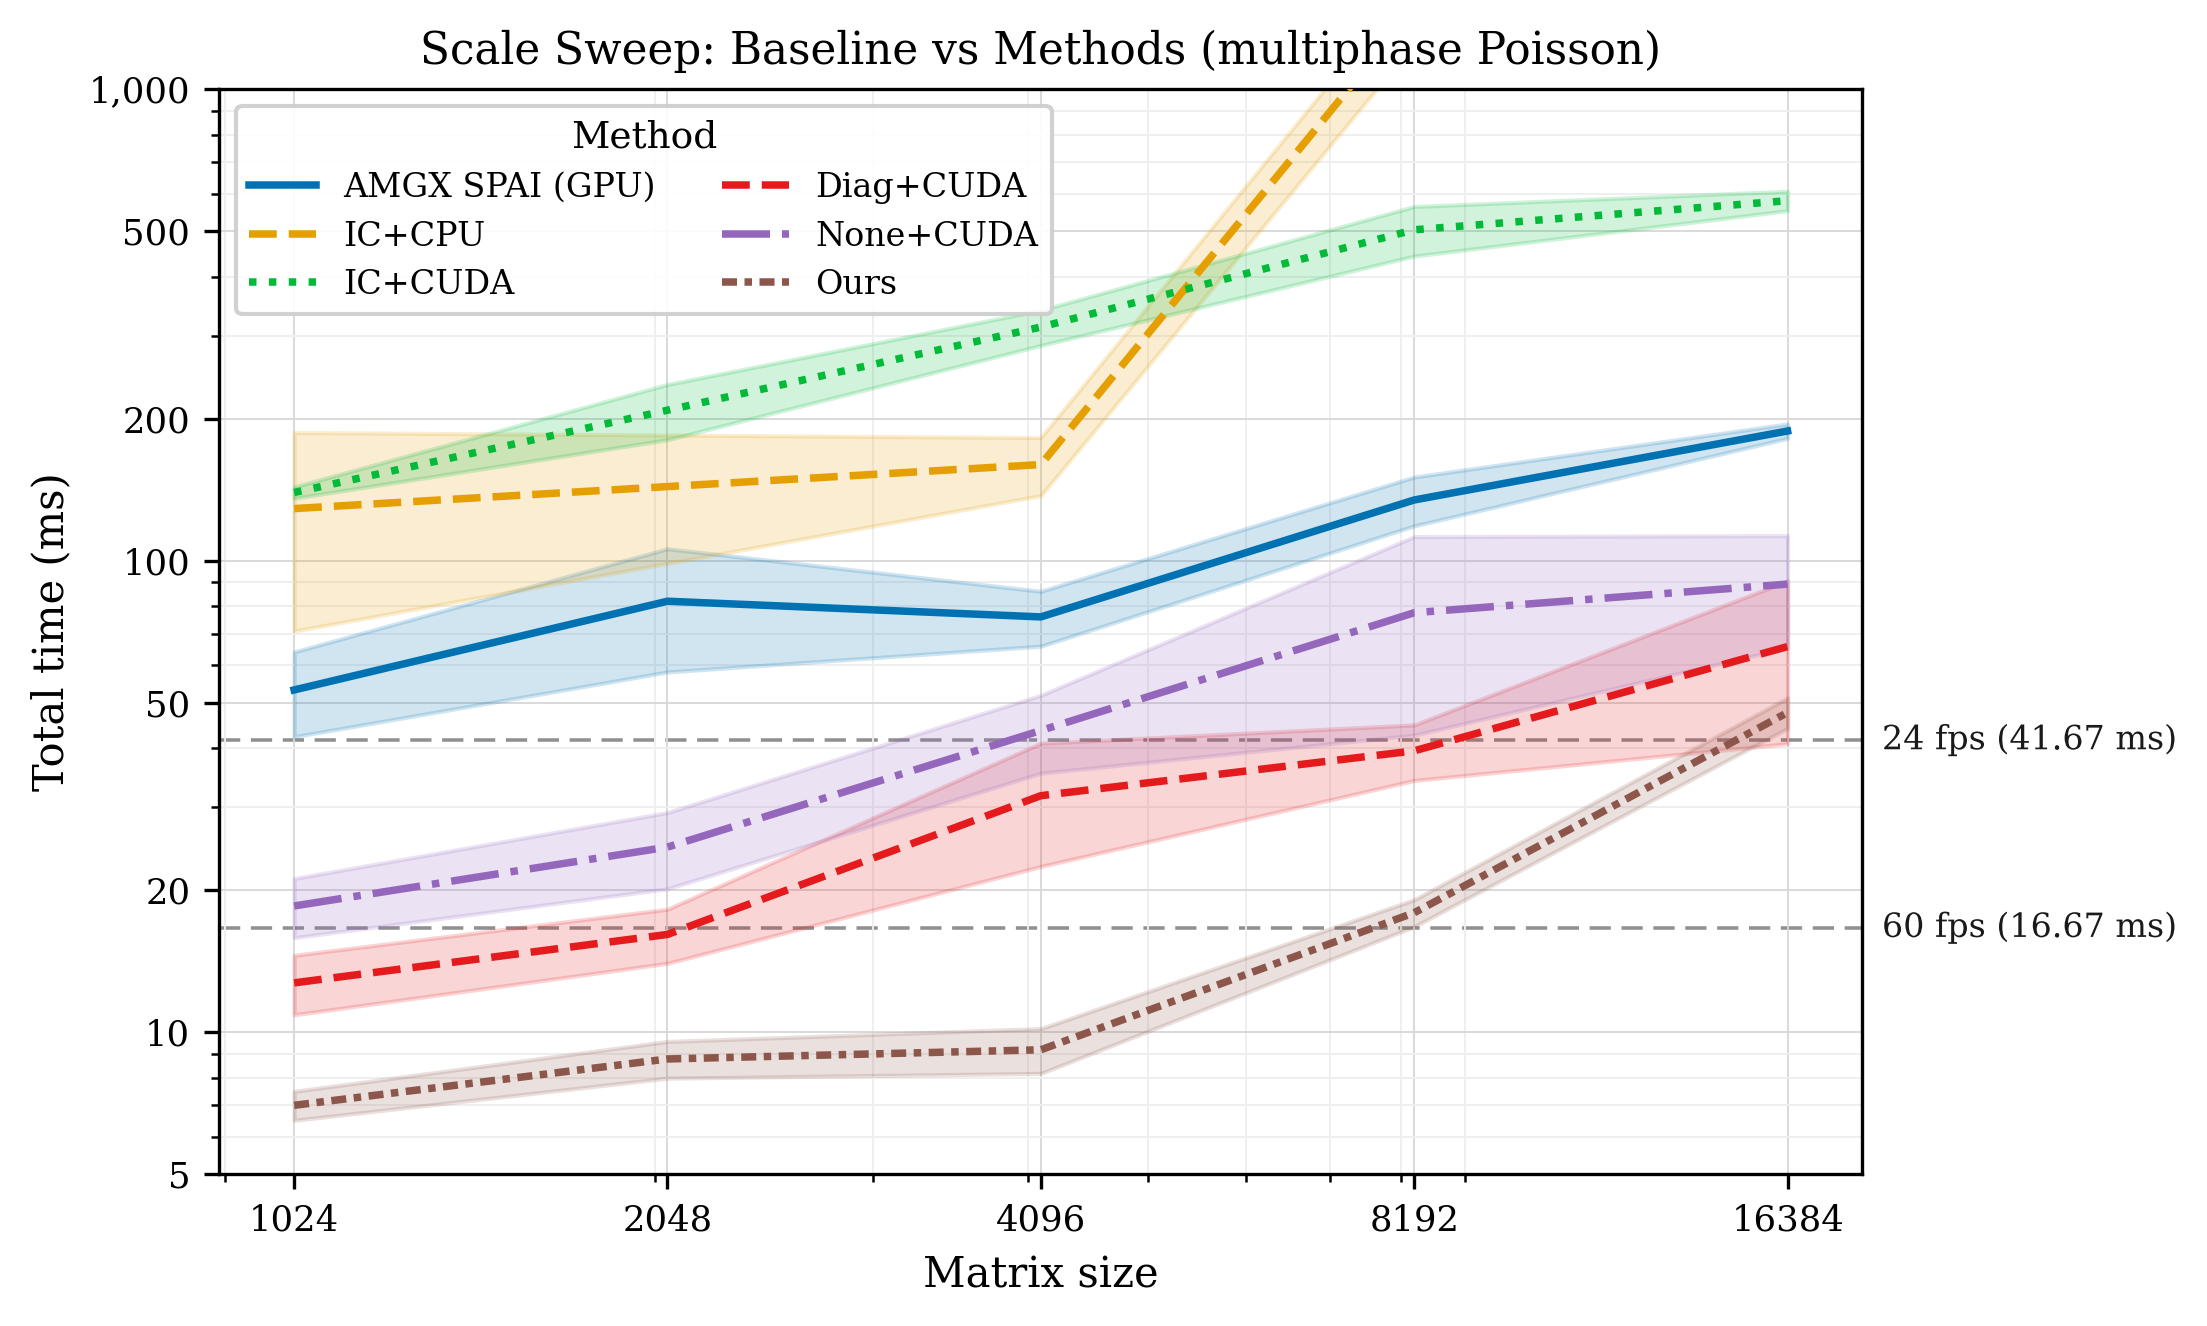
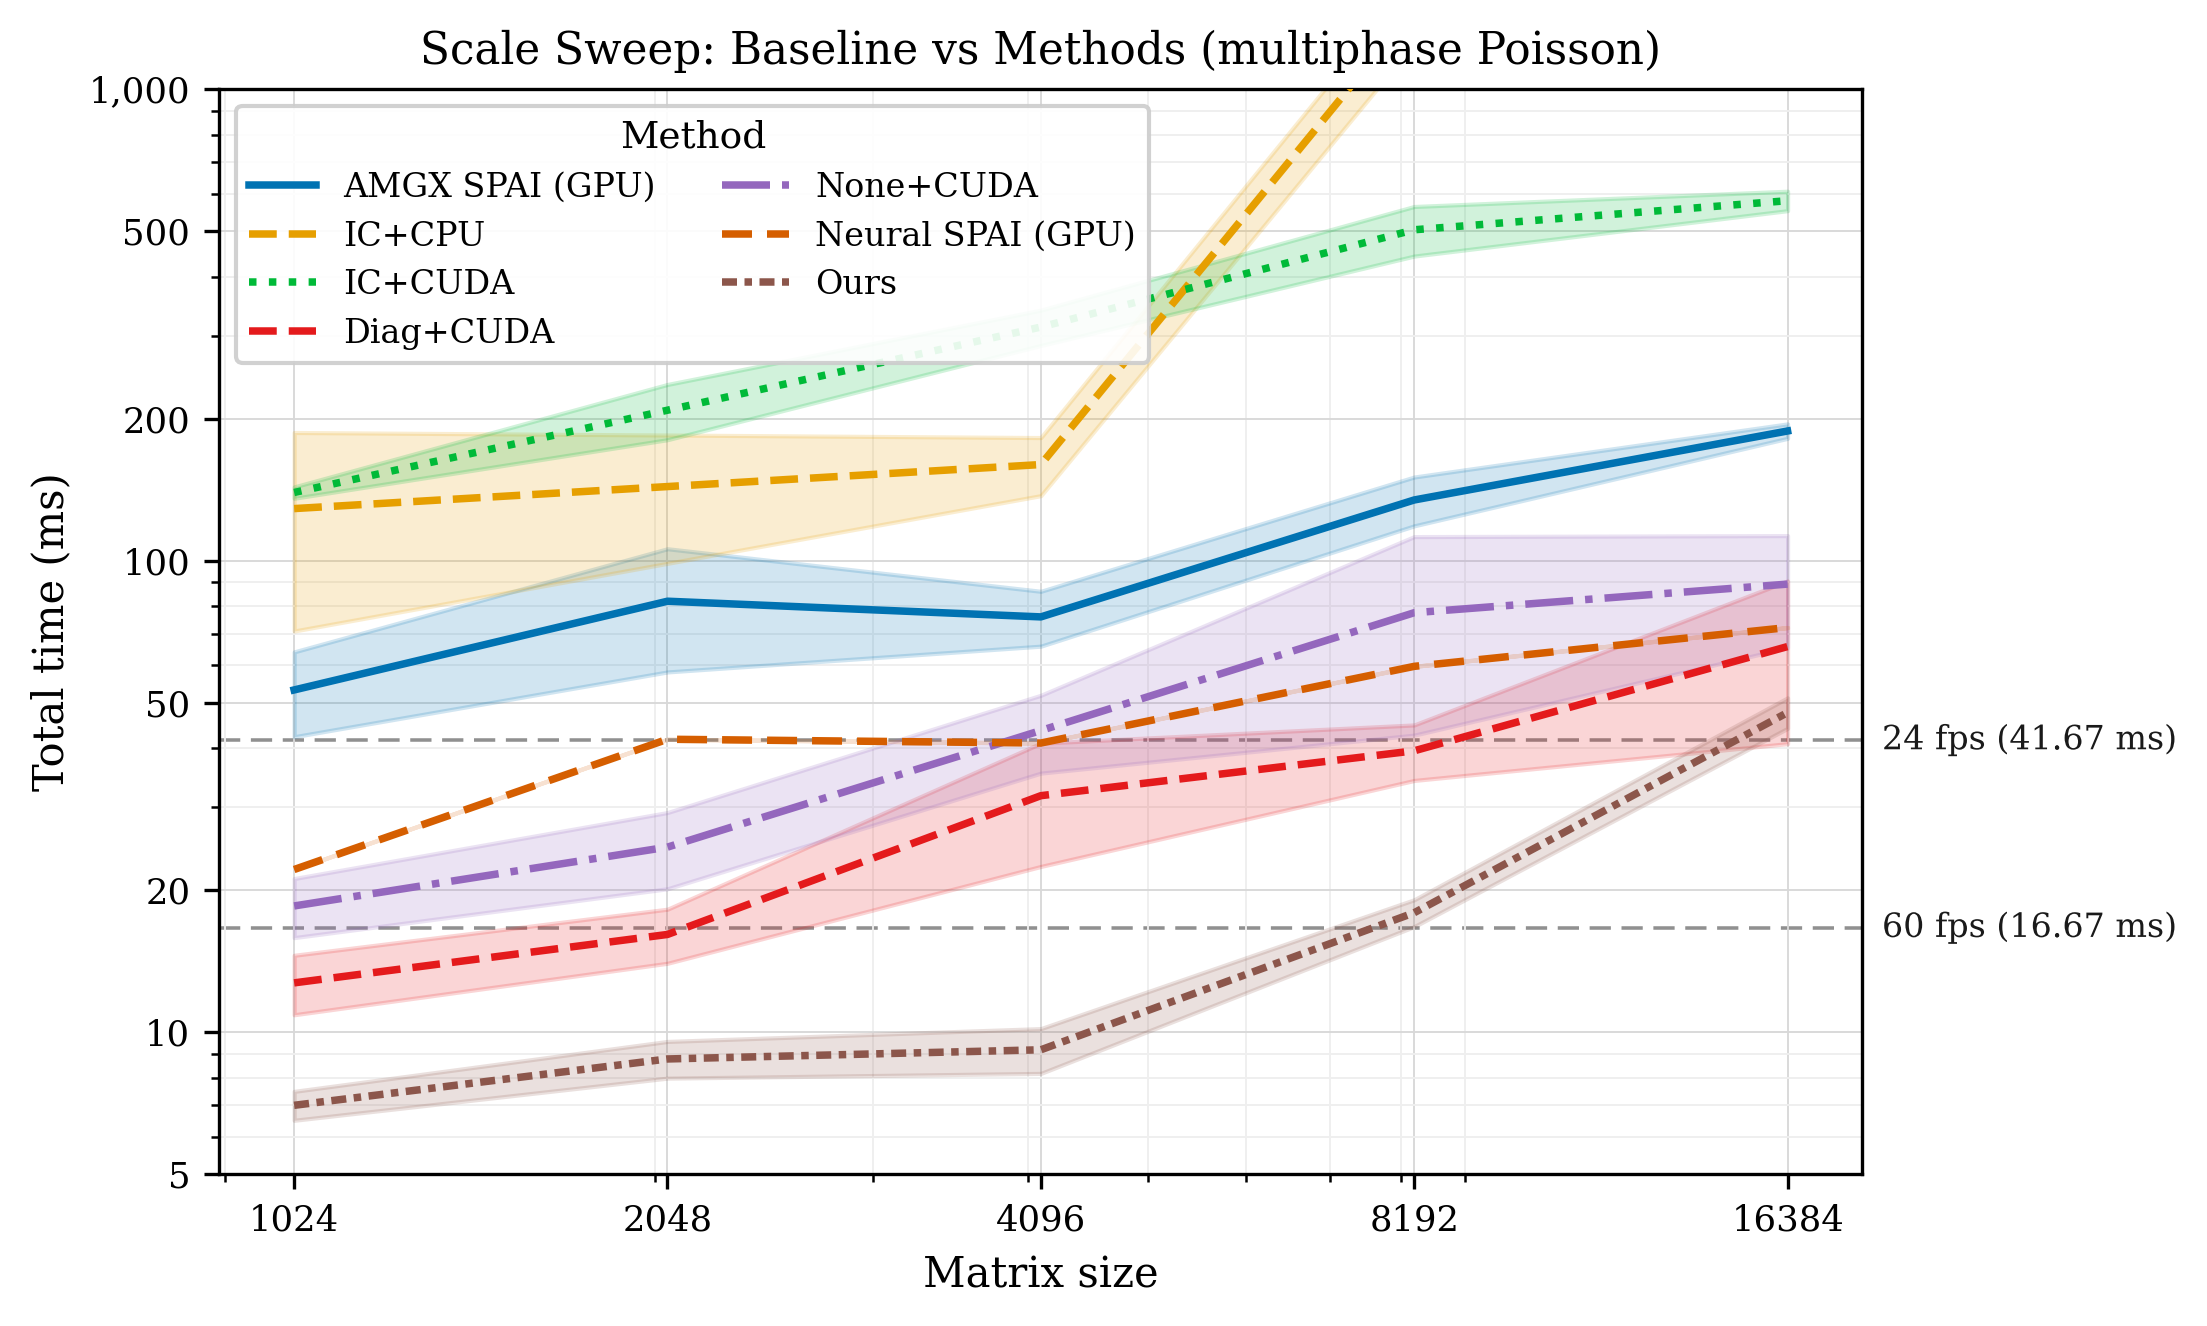
Incorporate neural SPAI baseline into main paper
Adds the re-trained neural SPAI (Yang et al. 2025) curve to the
scale-vs-time plot via a new loader in plot_eval_results.py that reads
lsp_scale_infer_summary.csv. Promotes the per-scale performance table
out of the supplementary into the main paper's figures-and-tables
section, expanded with all non-overlapping solver methods, "ms (iters)"
formatting, and bold marking the fastest GPU time per scale. Updates
the abstract, fig:scale_methods caption, and main-result paragraph to
cite the neural SPAI numbers (3.3x speedup at N=8192) and attribute the
gap to its irregular-gather SpMV apply. Slims the supplementary's old
perf table to a per-frame iteration-count variability table.

diff --git a/Paper/paper.tex b/Paper/paper.tex
@@ -93,7 +93,10 @@ $18.1\!\pm\!2.4$\,ms ($3.2$\,ms inference $+$ $14.9$\,ms PCG over $174$ iteratio
 $38.8\!\pm\!10.5$\,ms for GPU Jacobi, $117.7\!\pm\!4.1$\,ms for AMGX classical AMG, and
 $449.6\!\pm\!83.7$\,ms for AMGX \textsc{multicolor\_dilu} --- a $2.1\times$ speedup over
 the fastest classical GPU baseline (Jacobi) and over $24\times$ over AMGX
-\textsc{multicolor\_dilu}.
+\textsc{multicolor\_dilu}. Against the learned baseline most closely related to ours,
+neural SPAI~\cite{Yang2025sparse} re-trained per scale on the same benchmark with its
+CUDA apply path, we measure a $3.3\times$ end-to-end speedup at $N\!=\!8\,192$, with the
+gap dominated by the irregular-gather SpMVs in its apply rather than by iteration count.
 \end{abstract}
 
 \begin{CCSXML}
@@ -1019,10 +1022,11 @@ admits it (unpreconditioned CG, Jacobi, AMGX SPAI, ours), and per-kernel launche
 IC- and AMG-class methods that do not. AMGX baselines run with vendor defaults; we
 verified at $N\!=\!8\,192$ that no nearby AMGX hyperparameter configuration meaningfully
 improves total time. Full hardware, software stack, precision, and baseline-tuning
-details are in Supplementary Material, \S\ref{SX-supp:experimental-setup}.\footnote{%
-Neural SPAI~\cite{Yang2025sparse} would be the natural learned baseline but its public
-implementation does not yet support our problem class without substantial
-reimplementation; we leave a quantitative comparison to future work.}
+details are in Supplementary Material, \S\ref{SX-supp:experimental-setup}.
+We additionally include neural SPAI~\cite{Yang2025sparse} as a learned
+baseline: we ported its training pipeline and SAI loss to our multiphase
+benchmark and re-trained one network per scale, applying the resulting
+$G$ as a CUDA-Graph-captured pair of SpMVs in PCG.
 
 % ---------------------------------------------------------------------------
 \subsection{Target regime}
@@ -1156,32 +1160,41 @@ frame because $A$ changes; we move that cost out of the per-frame budget entirel
     problem sizes, $20$ frames per scale (mean $\pm 1\sigma$ band; relative residual
     tolerance $10^{-8}$). Dashed grey lines mark the $24$\,fps and $60$\,fps interactive
     budgets. Ours covers $\sim\!154$ down to $\sim\!22$\,fps across the size
-    range; the closest GPU baseline (Jacobi) covers $\sim\!85$ down to
-    $\sim\!16$\,fps on the same hardware. AMGX SPAI and GPU IC sit above $40$\,ms across
+    range; the closest classical GPU baseline (Jacobi) covers $\sim\!85$ down to
+    $\sim\!16$\,fps on the same hardware, and the closest learned baseline
+    (neural SPAI~\cite{Yang2025sparse}, re-trained per scale on our benchmark) covers
+    $\sim\!45$ down to $\sim\!14$\,fps. AMGX SPAI and GPU IC sit above $40$\,ms across
     all scales despite much lower iteration counts, dominated by unparallelizable
     triangular solves or V-cycle level synchronization. PyAMG (CPU) is omitted: its
     setup cost scales nonlinearly with contrast under stiff multiphase systems, making
-    its curve noisy and not directly comparable to GPU-resident methods; full numbers
-    are preserved in Supplementary, Table~\ref{SX-tab:full_perf_table}.}
+    its curve noisy and not directly comparable to GPU-resident methods; full
+    per-method timings and iteration counts appear in
+    Table~\ref{tab:full_perf_table_main}.}
   \label{fig:scale_methods}
 \end{figure}
 
 \paragraph{Main result.}
 Fig.~\ref{fig:scale_methods} reports per-frame mean$\pm$std solve time across $20$ test
-frames per scale; per-method iteration counts at the same scales appear inline below
-(full table in Supplementary, Table~\ref{SX-tab:full_perf_table}). Our method runs at
-interactive framerates across the full range: $18.1\!\pm\!2.4$\,ms ($\sim\!55$\,fps,
-$174$ iters) at $N\!=\!8\,192$ and $46.5\!\pm\!6.9$\,ms ($\sim\!22$\,fps, $386$ iters)
-at $N\!=\!16\,384$. The closest GPU baseline that delivers convergence in the same
-regime is Jacobi, at $38.8$\,ms ($968$ iters) and $63.3$\,ms ($1\,480$ iters)
-respectively --- a $\sim\!4\!\times$--$5\!\times$ smaller iteration count on identical
-hardware and a $2$--$3\!\times$ framerate gap. The IC- and AMG-class baselines achieve
-very low iteration counts ($\sim\!30$--$40$ for GPU \textsc{multicolor\_dilu}, $1$--$3$
-for AMGX SPAI), but their per-iteration cost is dominated by sequential triangular
-solves or level-by-level V-cycle synchronization, putting GPU AMG at $\sim\!5$\,fps and
-GPU \textsc{multicolor\_dilu} below $2$\,fps at $N\!=\!16\,384$ --- confirming the
-architectural argument from \S\ref{sec:application}
-(Table~\ref{tab:apply_complexity}).
+frames per scale; Table~\ref{tab:full_perf_table_main} consolidates the same data with
+per-method iteration counts. Our method runs at interactive framerates across the full
+range: $17.9$\,ms ($\sim\!56$\,fps, $168$ iters) at $N\!=\!8\,192$ and $47.6$\,ms
+($\sim\!21$\,fps, $394$ iters) at $N\!=\!16\,384$. The closest GPU baseline that
+delivers convergence in the same regime is Jacobi, at $39.5$\,ms ($968$ iters) and
+$65.7$\,ms ($1\,543$ iters) respectively --- a $\sim\!4\!\times$--$6\!\times$ smaller
+iteration count on identical hardware and a $1.4$--$2.2\!\times$ wall-clock gap.
+The learned neural SPAI baseline of Yang \emph{et al.}~\cite{Yang2025sparse},
+re-trained per scale on our benchmark and running its CUDA apply path, lands at
+$59.7$\,ms ($343$ iters) and $72.1$\,ms ($495$ iters), trailing our method by
+$3.3\times$ at $N\!=\!8\,192$ and $1.5\times$ at $N\!=\!16\,384$ despite an
+iteration count within $\sim\!2\!\times$ of ours --- the gap is dominated by the
+two random-gather SpMVs that its apply must dispatch per iteration, in contrast to our
+single batched-GEMM apply on contiguous tensors (\S\ref{sec:application}).
+The IC- and AMG-class baselines achieve very low iteration counts ($\sim\!30$--$40$
+for GPU \textsc{multicolor\_dilu}, $1$--$3$ for AMGX SPAI), but their per-iteration
+cost is dominated by sequential triangular solves or level-by-level V-cycle
+synchronization, putting GPU AMG at $\sim\!5$\,fps and GPU \textsc{multicolor\_dilu}
+below $2$\,fps at $N\!=\!16\,384$ --- confirming the architectural argument from
+\S\ref{sec:application} (Table~\ref{tab:apply_complexity}).
 
 Fig.~\ref{fig:convergence} (figures-only page) traces how convergence actually looks
 on a challenging frame --- a closed cross-shaped barrier with stiff density
@@ -1509,9 +1522,6 @@ recipe is appropriate.
   \label{fig:loss:eigenvalues}
 \end{figure}
 
-% ---------------------------------------------------------------------------
-% Additional figures-only content (allow normal float packing across pages).
-% ---------------------------------------------------------------------------
 \begin{figure}[!htbp]
   \centering
   \includegraphics[width=0.72\linewidth]{probe_alignment_8192_L3_hw_8k_24k.png}
@@ -1540,5 +1550,46 @@ recipe is appropriate.
     top axis: optimizer steps. Horizontal grey: unpreconditioned CG and Jacobi baselines.}
   \label{fig:training:dynamics}
 \end{figure}
+
+% ---------------------------------------------------------------------------
+% Consolidated performance table: placed as the last float so it lands on the
+% second figures-only page alongside Fig.~\ref{fig:convergence}, letting the
+% reader cross-read scale-vs-time numbers against the residual-propagation
+% panels without flipping to the supplementary.
+% ---------------------------------------------------------------------------
+\begin{table}[!htbp]
+\centering
+\caption{Per-frame end-to-end PCG solve time (ms) and PCG iteration count
+(in parentheses) on the multiphase Poisson benchmark, $20$ frames per scale,
+relative residual tolerance $10^{-8}$. GPU methods that admit single-graph
+capture (unpreconditioned CG, Jacobi, AMGX SPAI, neural SPAI, ours) run the
+inner loop as a single CUDA Graph replay (\S\ref{sec:application}); IC-class
+GPU methods with a triangular solve and AMGX V-cycles needing per-level
+barriers launch per kernel. Our Jacobi/CG numbers therefore already include
+the CUDA-Graph speedup --- an upper bound on what graph capture alone buys
+without our preconditioner. CPU rows are reference only.
+\textbf{Bold} marks the fastest GPU time at each scale.}
+\label{tab:full_perf_table_main}
+\scriptsize\setlength{\tabcolsep}{2.4pt}
+\begin{tabular}{@{}l ccccc@{}}
+\toprule
+Method & $1\,024$ & $2\,048$ & $4\,096$ & $8\,192$ & $16\,384$ \\
+\midrule
+Unprec.~CG (GPU)              & 18.5 (497)   & 24.7 (650)   & 43.6 (1\,153)  & 77.6 (1\,765)  & 89.2 (2\,103) \\
+Jacobi (GPU)                  & 12.7 (325)   & 16.1 (429)   & 31.7 (839)     & 39.5 (968)     & 65.7 (1\,543) \\
+AMGX SPAI (GPU)               & 53.2 (1)     & 82.0 (1)     & 76.0 (1)       & 134.5 (2)      & 188.3 (3) \\
+IC / DILU (GPU)               & 139.5 (11)   & 208.4 (15)   & 312.8 (22)     & 503.0 (30)     & 579.7 (40) \\
+Neural SPAI (GPU)~\cite{Yang2025sparse}
+                              & 22.1 (122)   & 41.8 (170)   & 41.0 (305)     & 59.7 (343)     & 72.1 (495) \\
+\textbf{Ours (GPU)}           & \textbf{7.0 (47)} & \textbf{8.8 (66)} & \textbf{9.2 (80)} & \textbf{17.9 (168)} & \textbf{47.6 (394)} \\
+\midrule
+\multicolumn{6}{@{}l}{\textit{CPU reference (not in competition with GPU rows)}}\\
+IC (CPU)                      & 128.9 (59)   & 51.6 (96)    & 159.9 (113)    & 1\,478.9 (170) & 13\,968.4 (254) \\
+AMG (CPU)                     & 22.2 (5)     & 24.8 (9)     & 24.5 (5)       & 109.8 (7)      & 674.2 (10) \\
+Neural SPAI (CPU)~\cite{Yang2025sparse}
+                              & 10.3 (122)   & 27.0 (170)   & 29.7 (305)     & 71.1 (343)     & 189.7 (495) \\
+\bottomrule
+\end{tabular}
+\end{table}
 
 \end{document}

diff --git a/Paper/supplementary.tex b/Paper/supplementary.tex
@@ -64,8 +64,8 @@ from a fixed Conda environment, using \verb|torch.compile| for graph capture. CP
 baselines use Eigen, SciPy, and PyAMG. Sparse matrix-vector products on the GPU use
 the CSR layout produced by the dataset generator (Sec.~\ref{supp:dataset}). PCG
 timing uses single-graph CUDA Graph replay for methods that admit it
-(unpreconditioned CG, Jacobi, AMGX SPAI, ours); IC- and AMG-class methods are timed
-per launch since their sequential triangular solves and V-cycle synchronization
+(unpreconditioned CG, Jacobi, AMGX SPAI, neural SPAI, ours); IC- and AMG-class methods
+are timed per launch since their sequential triangular solves and V-cycle synchronization
 preclude single-graph capture.
 
 \paragraph{Default model configuration.}
@@ -177,8 +177,8 @@ tiles satisfies $M_{\mathcal{H}}\!=\!K\!-\!1$ (geometric sum
 $K/2 + K/4 + \cdots + 1$ over the strict upper triangle); the symmetric lower
 triangle reuses the same $B_m$ via the transposed apply
 $\mathbf{t}^{\mathrm{c}}_m\!=\!B_m^\top\mathbf{s}^{\mathrm{r}}_m$ of main
-paper Eq.~(5). Concrete factor-tensor sizes at the scales in
-Table~\ref{tab:full_perf_table} are listed in Sec.~\ref{supp:precision}.
+paper Eq.~(5). Concrete factor-tensor sizes at the scales of the main paper's
+performance table (main paper Table~2) are listed in Sec.~\ref{supp:precision}.
 
 % ===========================================================================
 \section{Training Procedure}
@@ -298,18 +298,18 @@ practical neural preconditioners but an $\mathcal{H}$-matrix far-block
 representation can.
 
 % ===========================================================================
-\section{Full Performance Table with Iteration Counts}
+\section{Per-frame Iteration-count Variability}
 \label{supp:full_perf_table}
 % ===========================================================================
 
-Table~1 in the main paper (apply-path access patterns) and Fig.~5 (per-frame
-solve time vs.\ $N$) omit per-method iteration counts to fit the column budget.
-Table~\ref{tab:full_perf_table} lists them here for completeness across the
-seven baselines and our method, on the same $20$ test frames per scale.
+The consolidated per-scale times and mean iteration counts have moved to the
+main paper, Table~2. This section reports the across-frame variability
+($\pm 1\sigma$ over the same $20$ test frames per scale) that the main table
+omits to fit the column budget.
 
 \begin{table}[H]
 \centering
-\caption{Per-frame mean$\pm$std PCG iterations on the multiphase Poisson
+\caption{Per-frame mean$\pm$std PCG iteration counts on the multiphase Poisson
 benchmark ($\mathrm{rtol}\!=\!10^{-8}$, $20$ frames per scale). Bold row marks
 the proposed method.}
 \label{tab:full_perf_table}
@@ -318,26 +318,31 @@ the proposed method.}
 \toprule
 Method & $N\!=\!1\,024$ & $N\!=\!2\,048$ & $N\!=\!4\,096$ & $N\!=\!8\,192$ & $N\!=\!16\,384$ \\
 \midrule
-Unprec.~CG (GPU)             & $497\!\pm\!144$ & $650\!\pm\!240$ & $1153\!\pm\!434$ & $1765\!\pm\!1744$ & $2002\!\pm\!921$ \\
-Jacobi (GPU)                 & $325\!\pm\!83$  & $429\!\pm\!112$ & $839\!\pm\!476$  & $968\!\pm\!261$   & $1480\!\pm\!913$ \\
-IC (CPU)                     & $59\!\pm\!18$   & $96\!\pm\!23$   & $113\!\pm\!31$   & $170\!\pm\!47$    & $254\!\pm\!61$ \\
-IC / DILU (GPU)              & $11\!\pm\!1$    & $15\!\pm\!1$    & $22\!\pm\!4$     & $30\!\pm\!5$      & $40\!\pm\!3$ \\
-AMG (CPU)                    & $5\!\pm\!6$     & $9\!\pm\!6$     & $5\!\pm\!7$      & $7\!\pm\!8$       & $10\!\pm\!8$ \\
+Unprec.~CG (GPU)             & $497\!\pm\!144$ & $650\!\pm\!240$ & $1153\!\pm\!434$ & $1765\!\pm\!1744$ & $2103\!\pm\!1113$ \\
+Jacobi (GPU)                 & $325\!\pm\!83$  & $429\!\pm\!112$ & $839\!\pm\!476$  & $968\!\pm\!261$   & $1543\!\pm\!1137$ \\
+IC / DILU (GPU)              & $11\!\pm\!1$    & $15\!\pm\!1$    & $22\!\pm\!4$     & $30\!\pm\!5$      & $40\!\pm\!4$ \\
 AMG / AMGX (GPU)             & $1\!\pm\!0$     & $1\!\pm\!0$     & $1\!\pm\!1$      & $2\!\pm\!0$       & $3\!\pm\!0$ \\
-\textbf{Ours (GPU)}          & $\mathbf{50\!\pm\!11}$ & $\mathbf{66\!\pm\!16}$ & $\mathbf{83\!\pm\!24}$ & $\mathbf{174\!\pm\!27}$ & $\mathbf{386\!\pm\!69}$ \\
+Neural SPAI (GPU)~\cite{Yang2025sparse} & $122$           & $170$           & $305$            & $343$             & $495$ \\
+IC (CPU)                     & $59\!\pm\!18$   & $96\!\pm\!23$   & $113\!\pm\!31$   & $170\!\pm\!47$    & $254\!\pm\!61$ \\
+AMG (CPU)                    & $5\!\pm\!6$     & $9\!\pm\!6$     & $5\!\pm\!7$      & $7\!\pm\!8$       & $10\!\pm\!8$ \\
+\textbf{Ours (GPU)}          & $\mathbf{47\!\pm\!9}$ & $\mathbf{66\!\pm\!16}$ & $\mathbf{80\!\pm\!24}$ & $\mathbf{168\!\pm\!26}$ & $\mathbf{394\!\pm\!68}$ \\
 \bottomrule
 \end{tabular}
 \end{table}
 
 \noindent
-CPU AMG and GPU AMGX achieve very low iteration counts ($\le\!10$) but pay for
-it in per-iteration V-cycle synchronization, putting them above the interactive
-budget at every scale (main paper, Fig.~5). GPU IC/DILU sits at $11$--$40$
-iterations, with each iteration carrying a sequential triangular solve.
-Jacobi and unpreconditioned CG show $\sigma/\mu$ approaching unity at the
-larger $N$ because individual frames span the full $[5, 100]$ contrast range
-and stiff frames inflate iteration counts disproportionately; our $\sigma/\mu$
-stays at $\le\!21\%$ across all scales.
+The neural SPAI baseline is re-trained per scale (one network per $N$) using
+the SAI loss of~\cite{Yang2025sparse} on the same training distribution as
+ours; the row reports the mean iteration count from a single inference run
+per scale (no across-frame std). CPU AMG and GPU AMGX achieve very low
+iteration counts ($\le\!10$) but pay for it in per-iteration V-cycle
+synchronization, putting them above the interactive budget at every scale
+(main paper, Fig.~5). GPU IC/DILU sits at $11$--$40$ iterations, with each
+iteration carrying a sequential triangular solve. Jacobi and unpreconditioned
+CG show $\sigma/\mu$ approaching unity at the larger $N$ because individual
+frames span the full $[5, 100]$ contrast range and stiff frames inflate
+iteration counts disproportionately; our $\sigma/\mu$ stays at $\le\!21\%$
+across all scales.
 
 % ===========================================================================
 \section{Generalization Robustness}

diff --git a/Assets/Scripts/plot_eval_results.py b/Assets/Scripts/plot_eval_results.py
@@ -69,6 +69,10 @@ METHOD_STYLES: dict[tuple[str, str], MethodStyle] = {
     ("ic_amgx", "gpu"): MethodStyle("IC+CUDA", "#00BA38", ":"),
     ("jacobi", "gpu"): MethodStyle("Diag+CUDA", C_RED, "--"),
     ("cg", "gpu"): MethodStyle("None+CUDA", C_PURPLE, "-."),
+    # Neural SPAI baseline (Yang2025sparse, re-trained per scale; CUDA solve path)
+    # is loaded from lsp_scale_infer_summary.csv and injected as a synthetic
+    # (method, device) tuple in _load_neural_spai_rows below.
+    ("neural_spai", "gpu"): MethodStyle("Neural SPAI (GPU)", C_ORANGE, (0, (4, 2))),
     ("leafonly", "gpu"): MethodStyle("Ours", C_BROWN, (0, (2, 1, 1, 1))),
 }
 
@@ -228,6 +232,45 @@ def _print_ablation_leaf_data_audit(kept: pd.DataFrame, excluded: pd.DataFrame, 
         print(kept[present].sort_values(["family", "config", "scale"]).to_string(index=False))
 
 
+def _load_neural_spai_rows(results_dir: pathlib.Path) -> pd.DataFrame:
+    """Read Neural SPAI (CUDA) timings from the lsp_scale_infer_summary CSV.
+
+    The neural-SPAI sweep records mean totals only (no per-frame std), so the
+    returned rows fill total_ms_std/iters_std with NaN — the plotting code
+    handles missing std gracefully (no ribbon).
+    """
+    p = results_dir / "lsp_scale_infer_summary.csv"
+    if not p.exists():
+        return pd.DataFrame(
+            columns=[
+                "scale", "config", "method", "device",
+                "total_ms", "total_ms_std", "iters", "iters_std",
+            ]
+        )
+    raw = pd.read_csv(p)
+    rows = raw[raw["method"].astype(str) == "Neural+CUDA"].copy()
+    if rows.empty:
+        return pd.DataFrame(
+            columns=[
+                "scale", "config", "method", "device",
+                "total_ms", "total_ms_std", "iters", "iters_std",
+            ]
+        )
+    out = pd.DataFrame(
+        {
+            "scale": pd.to_numeric(rows["scale"], errors="coerce"),
+            "config": rows["exp_name"].astype(str).str.replace("multiphase_v2_", "v2_") + "_neural_spai",
+            "method": "neural_spai",
+            "device": "gpu",
+            "total_ms": pd.to_numeric(rows["total_time_ms"], errors="coerce"),
+            "total_ms_std": float("nan"),
+            "iters": pd.to_numeric(rows["iterations"], errors="coerce"),
+            "iters_std": float("nan"),
+        }
+    )
+    return out
+
+
 def _load_results(results_dir: pathlib.Path) -> pd.DataFrame:
     task_files = sorted(results_dir.glob("ablation_sweep_task_*.csv"))
     if task_files:
@@ -339,7 +382,7 @@ def _build_leafonly_ablation_table(df: pd.DataFrame, cfg_map: dict[str, dict]) -
 def _plot_methods_across_scale(df: pd.DataFrame, out_path: pathlib.Path) -> None:
     # Baseline configs for method-vs-scale plot
     baseline = df[
-        df["config"].astype(str).str.contains(r"_d128_L3_hw$")
+        df["config"].astype(str).str.contains(r"_d128_L3_hw$|_neural_spai$")
         & df["scale"].isin([1024, 2048, 4096, 8192, 16384, 32768])
     ].copy()
 
@@ -727,6 +770,9 @@ def main() -> None:
 
     _apply_style()
     df = _load_results(args.results_dir)
+    neural_spai = _load_neural_spai_rows(args.results_dir)
+    if not neural_spai.empty:
+        df = pd.concat([df, neural_spai], ignore_index=True)
     cfg_map = _config_map()
     _plot_methods_across_scale(df, args.out_methods)
     if args.methods_only: